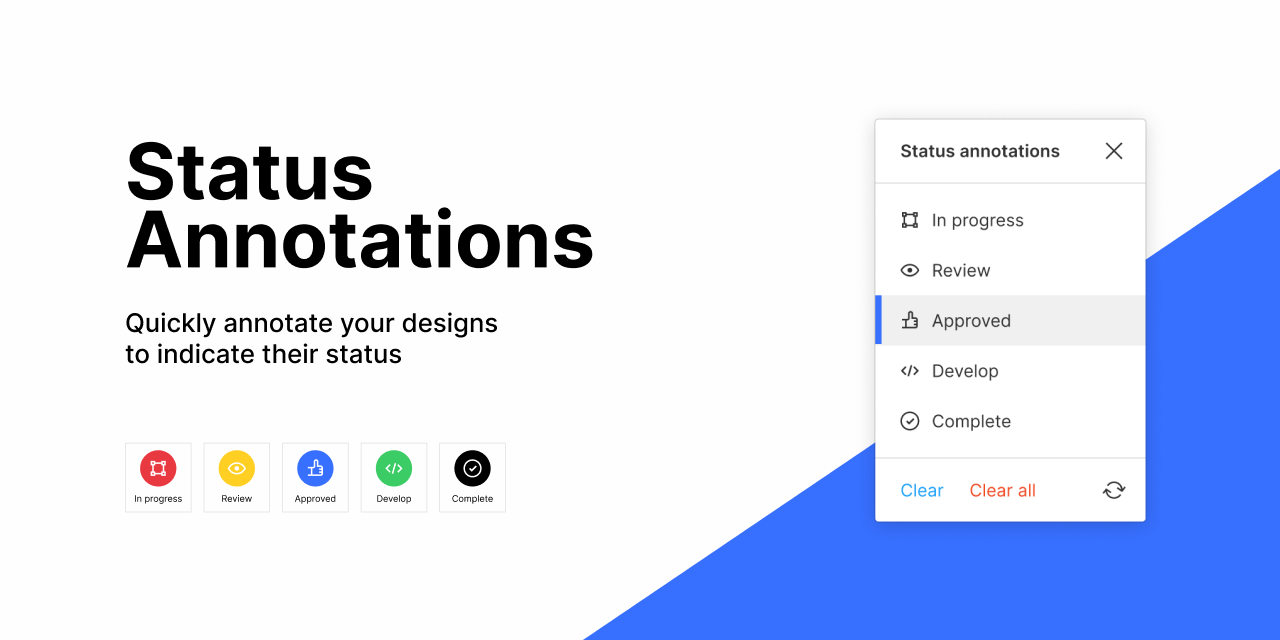
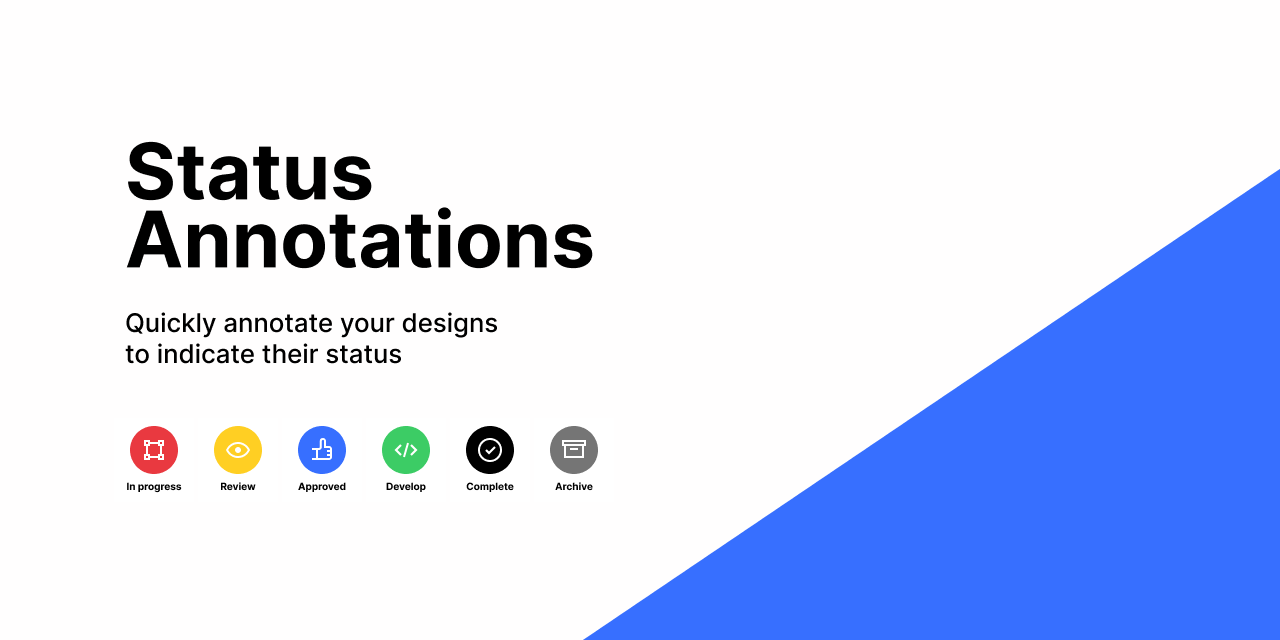
Added archive option
Added archive option + updated promo images

diff --git a/public/code.js b/public/code.js
@@ -1,5 +1,4 @@
-'use strict';
-
+"use strict";
 /*! *****************************************************************************
 Copyright (c) Microsoft Corporation. All rights reserved.
 Licensed under the Apache License, Version 2.0 (the "License"); you may not use
@@ -13,286 +12,4 @@ MERCHANTABLITY OR NON-INFRINGEMENT.
 
 See the Apache Version 2.0 License for specific language governing permissions
 and limitations under the License.
-***************************************************************************** */
-
-function __awaiter(thisArg, _arguments, P, generator) {
-    function adopt(value) { return value instanceof P ? value : new P(function (resolve) { resolve(value); }); }
-    return new (P || (P = Promise))(function (resolve, reject) {
-        function fulfilled(value) { try { step(generator.next(value)); } catch (e) { reject(e); } }
-        function rejected(value) { try { step(generator["throw"](value)); } catch (e) { reject(e); } }
-        function step(result) { result.done ? resolve(result.value) : adopt(result.value).then(fulfilled, rejected); }
-        step((generator = generator.apply(thisArg, _arguments || [])).next());
-    });
-}
-
-//vars
-let uiWidth = 184; // default ui width
-let uiHeight = 210; // default ui height
-let spacing = 8; // spacing of annotations from top of frame
-let page = figma.currentPage;
-let updateCount = 0;
-let removeCount = 0;
-cleanUp();
-if (figma.command === 'refresh') {
-    cleanUp();
-    figma.closePlugin();
-}
-else {
-    //show the UI of the plugin
-    figma.showUI(__html__, { width: uiWidth, height: uiHeight });
-}
-//recieves msgs from the UI
-figma.ui.onmessage = msg => {
-    switch (msg.type) {
-        case 'height':
-            uiHeight = msg.height;
-            figma.ui.resize(uiWidth, uiHeight);
-            break;
-        case 'addStatus':
-            let status = msg.status;
-            createAnnotations(status);
-            break;
-        case 'delete':
-            deleteSelected();
-            break;
-        case 'deleteAll':
-            deleteAll();
-            break;
-        case 'refresh':
-            cleanUp();
-            break;
-    }
-};
-//function to get frames within the selection
-function getTopLevelNodes(nodes) {
-    let topLevelNodesInSelection = [];
-    if (nodes) {
-        nodes.forEach(node => {
-            if (node.parent === page) {
-                if (node.type === 'COMPONENT' || node.type === 'FRAME' || node.type === 'INSTANCE' || node.type === 'GROUP') {
-                    topLevelNodesInSelection.push(node);
-                    console.log(topLevelNodesInSelection);
-                }
-            }
-        });
-    }
-    return topLevelNodesInSelection;
-}
-//create specified annotation
-function createAnnotations(status) {
-    return __awaiter(this, void 0, void 0, function* () {
-        let selection = getTopLevelNodes(figma.currentPage.selection);
-        if (selection.length !== 0) {
-            //counter
-            let count = 0;
-            //create the frame with auto layout
-            let annotionFrame = figma.createFrame();
-            annotionFrame.counterAxisSizingMode = 'AUTO';
-            annotionFrame.layoutMode = 'HORIZONTAL';
-            annotionFrame.itemSpacing = 4;
-            annotionFrame.horizontalPadding = 6;
-            annotionFrame.verticalPadding = 4;
-            annotionFrame.name = 'annotation';
-            annotionFrame.topLeftRadius = 3;
-            annotionFrame.topRightRadius = 3;
-            //style the stroke
-            annotionFrame.strokes = [{
-                    type: 'SOLID',
-                    visible: true,
-                    opacity: 1,
-                    blendMode: 'NORMAL',
-                    color: hexToFigmaRgb('#DBDBDB')
-                }];
-            annotionFrame.strokeWeight = 1;
-            //create and style the text node
-            let text = figma.createText();
-            text.name = status.title;
-            //define and load the font
-            let fontName = {
-                'family': 'Inter',
-                'style': 'Regular'
-            };
-            yield figma.loadFontAsync(fontName);
-            //apply the font properties to the text node
-            text.fontName = fontName;
-            text.fontSize = 12;
-            text.lineHeight = {
-                'value': 16,
-                'unit': 'PIXELS'
-            };
-            //add text to the text node
-            text.characters = status.title;
-            //create the icon
-            let icon = figma.createNodeFromSvg(status.icon);
-            icon.name = 'icon-' + status.slug;
-            icon.layoutAlign = 'CENTER';
-            //add icon and text to annotation
-            annotionFrame.insertChild(0, text);
-            annotionFrame.insertChild(1, icon);
-            //group the frame and put it into an array
-            let itemsToGroup = [];
-            itemsToGroup.push(annotionFrame);
-            let annotation = figma.group(itemsToGroup, page);
-            annotation.name = status.title;
-            //create the inner shadow
-            let innerShadowColor = hexToFigmaRgb(status.color);
-            innerShadowColor = Object.assign({ a: 1.0 }, innerShadowColor);
-            annotation.effects = [{
-                    blendMode: 'NORMAL',
-                    color: innerShadowColor,
-                    offset: { x: 0, y: -2 },
-                    radius: 0,
-                    type: 'INNER_SHADOW',
-                    visible: true
-                }];
-            //loop through each frame
-            selection.forEach(node => {
-                let statusAnnotation;
-                //remove existing status if there is one
-                removeStatus(node);
-                //check to see if first annotation
-                if (count === 0) {
-                    statusAnnotation = annotation;
-                }
-                else {
-                    statusAnnotation = annotation.clone();
-                }
-                //get the frame id
-                let nodeId = node.id;
-                //set the position of the annotation
-                let y = node.y - statusAnnotation.height - spacing;
-                let x = (node.x + node.width) - statusAnnotation.width;
-                statusAnnotation.x = x;
-                statusAnnotation.y = y;
-                //add meta data to the annotation
-                statusAnnotation.setPluginData('frameId', nodeId);
-                //add to group with annotations or create one
-                let annotationGroup = page.findOne(x => x.type === 'GROUP' && x.name === 'status_annotations');
-                if (annotationGroup) {
-                    annotationGroup.appendChild(statusAnnotation);
-                    annotationGroup.parent.insertChild(0, annotationGroup);
-                }
-                else {
-                    let annotationsToGroup = [];
-                    annotationsToGroup.push(statusAnnotation);
-                    let newAnnotationGroup = figma.group(annotationsToGroup, page);
-                    newAnnotationGroup.name = 'status_annotations';
-                    newAnnotationGroup.locked = true;
-                    newAnnotationGroup.expanded = false;
-                    newAnnotationGroup.parent.insertChild(0, newAnnotationGroup);
-                }
-                //set plugin relaunch data
-                if (node.type != 'INSTANCE') {
-                    node.setRelaunchData({ status: status.title });
-                }
-                node.setSharedPluginData('statusannotations', 'status', status.title);
-                //add plugin relaunch data to the page
-                page.setRelaunchData({ refresh: '' });
-                //increase the counter
-                count++;
-            });
-        }
-        else {
-            figma.notify('Please select a top level frame, component, or group');
-        }
-    });
-}
-//clears the status on selected frames
-function deleteSelected() {
-    let selection = getTopLevelNodes(figma.currentPage.selection);
-    if (selection.length !== 0) {
-        selection.forEach(node => {
-            removeStatus(node);
-            if (node.type != 'INSTANCE') {
-                node.setRelaunchData({});
-            }
-        });
-        if (removeCount === 1) {
-            figma.notify('1 annotation removed');
-        }
-        else if (removeCount > 1) {
-            figma.notify(removeCount + ' annotations removed');
-        }
-    }
-    else {
-        figma.notify('Please select a frame, component, or group with a status');
-    }
-    removeCount = 0;
-}
-//clear all annotations
-function deleteAll() {
-    let annotationGroup = page.findOne(x => x.type === 'GROUP' && x.name === 'status_annotations');
-    if (annotationGroup) {
-        annotationGroup.remove();
-    }
-    //need to make this more performant
-    let topLevelNodes = getTopLevelNodes(figma.currentPage.children);
-    topLevelNodes.forEach(node => {
-        if (node.type != 'INSTANCE') {
-            node.setRelaunchData({});
-        }
-    });
-    //remove the plugin relaunch button
-    page.setRelaunchData({});
-    //notify the user
-    figma.notify('All annotations removed');
-}
-//remove the status msg from a frame
-function removeStatus(frame) {
-    let targetId = frame.id;
-    let annotationGroup = page.findOne(x => x.type === 'GROUP' && x.name === 'status_annotations');
-    //remove shared plugin data`
-    frame.setSharedPluginData('statusannotations', 'status', '');
-    if (annotationGroup) {
-        annotationGroup.children.forEach(annotation => {
-            let refId = annotation.getPluginData('frameId');
-            if (targetId === refId) {
-                annotation.remove();
-                removeCount++;
-            }
-        });
-    }
-}
-//this function removes unused annotations and also updates the position
-function cleanUp() {
-    let annotationGroup = page.findOne(x => x.type === 'GROUP' && x.name === 'status_annotations');
-    if (annotationGroup) {
-        annotationGroup.children.forEach(annotation => {
-            let refId = annotation.getPluginData('frameId');
-            let node = figma.getNodeById(refId);
-            if (node) {
-                let y = node.y - annotation.height - spacing;
-                let x = (node.x + node.width) - annotation.width;
-                if (annotation.x != x && annotation.y != y) {
-                    updateCount++;
-                }
-                annotation.x = x;
-                annotation.y = y;
-            }
-            else {
-                annotation.remove();
-                updateCount++;
-            }
-        });
-        //talk to the user
-        if (updateCount === 1) {
-            figma.notify('1 annotation updated');
-        }
-        else if (updateCount > 1) {
-            figma.notify(updateCount + ' annotations updated');
-        }
-        //move the annotations to the bottom
-        annotationGroup.parent.insertChild(0, annotationGroup);
-    }
-    updateCount = 0;
-}
-//Helper Functions
-//hex to figma color system
-function hexToFigmaRgb(hex) {
-    let result = /^#?([a-f\d]{2})([a-f\d]{2})([a-f\d]{2})$/i.exec(hex);
-    return result ? {
-        r: (parseInt(result[1], 16)) / 255,
-        g: (parseInt(result[2], 16)) / 255,
-        b: (parseInt(result[3], 16)) / 255
-    } : null;
-}
+***************************************************************************** */function e(e,t,a,n){return new(a||(a=Promise))((function(i,o){function s(e){try{r(n.next(e))}catch(e){o(e)}}function l(e){try{r(n.throw(e))}catch(e){o(e)}}function r(e){var t;e.done?i(e.value):(t=e.value,t instanceof a?t:new a((function(e){e(t)}))).then(s,l)}r((n=n.apply(e,t||[])).next())}))}let t=210,a=figma.currentPage,n=0,i=0;function o(e){let t=[];return e&&e.forEach(e=>{e.parent===a&&("COMPONENT"!==e.type&&"FRAME"!==e.type&&"INSTANCE"!==e.type&&"GROUP"!==e.type||(t.push(e),console.log(t)))}),t}function s(e){let t=e.id,n=a.findOne(e=>"GROUP"===e.type&&"status_annotations"===e.name);e.setSharedPluginData("statusannotations","status",""),n&&n.children.forEach(e=>{let a=e.getPluginData("frameId");t===a&&(e.remove(),i++)})}function l(){let e=a.findOne(e=>"GROUP"===e.type&&"status_annotations"===e.name);e&&(e.children.forEach(e=>{let t=e.getPluginData("frameId"),a=figma.getNodeById(t);if(a){let t=a.y-e.height-8,i=a.x+a.width-e.width;e.x!=i&&e.y!=t&&n++,e.x=i,e.y=t}else e.remove(),n++}),1===n?figma.notify("1 annotation updated"):n>1&&figma.notify(n+" annotations updated"),e.parent.insertChild(0,e)),n=0}function r(e){let t=/^#?([a-f\d]{2})([a-f\d]{2})([a-f\d]{2})$/i.exec(e);return t?{r:parseInt(t[1],16)/255,g:parseInt(t[2],16)/255,b:parseInt(t[3],16)/255}:null}l(),"refresh"===figma.command?(l(),figma.closePlugin()):figma.showUI(__html__,{width:184,height:t}),figma.ui.onmessage=n=>{switch(n.type){case"height":t=n.height,figma.ui.resize(184,t);break;case"addStatus":!function(t){e(this,void 0,void 0,(function*(){let e=o(figma.currentPage.selection);if(0!==e.length){let n=0,i=figma.createFrame();i.counterAxisSizingMode="AUTO",i.layoutMode="HORIZONTAL",i.itemSpacing=4,i.horizontalPadding=6,i.verticalPadding=4,i.name="annotation",i.topLeftRadius=3,i.topRightRadius=3,i.strokes=[{type:"SOLID",visible:!0,opacity:1,blendMode:"NORMAL",color:r("#DBDBDB")}],i.strokeWeight=1;let o=figma.createText();o.name=t.title;let l={family:"Inter",style:"Regular"};yield figma.loadFontAsync(l),o.fontName=l,o.fontSize=12,o.lineHeight={value:16,unit:"PIXELS"},o.characters=t.title;let f=figma.createNodeFromSvg(t.icon);f.name="icon-"+t.slug,f.layoutAlign="CENTER",i.insertChild(0,o),i.insertChild(1,f);let c=[];c.push(i);let u=figma.group(c,a);u.name=t.title;let d=r(t.color);d=Object.assign({a:1},d),u.effects=[{blendMode:"NORMAL",color:d,offset:{x:0,y:-2},radius:0,type:"INNER_SHADOW",visible:!0}],e.forEach(e=>{let i;s(e),i=0===n?u:u.clone();let o=e.id,l=e.y-i.height-8,r=e.x+e.width-i.width;i.x=r,i.y=l,i.setPluginData("frameId",o);let f=a.findOne(e=>"GROUP"===e.type&&"status_annotations"===e.name);if(f)f.appendChild(i),f.parent.insertChild(0,f);else{let e=[];e.push(i);let t=figma.group(e,a);t.name="status_annotations",t.locked=!0,t.expanded=!1,t.parent.insertChild(0,t)}"INSTANCE"!=e.type&&e.setRelaunchData({status:t.title}),e.setSharedPluginData("statusannotations","status",t.title),a.setRelaunchData({refresh:""}),n++})}else figma.notify("Please select a top level frame, component, or group")}))}(n.status);break;case"delete":!function(){let e=o(figma.currentPage.selection);0!==e.length?(e.forEach(e=>{s(e),"INSTANCE"!=e.type&&e.setRelaunchData({})}),1===i?figma.notify("1 annotation removed"):i>1&&figma.notify(i+" annotations removed")):figma.notify("Please select a frame, component, or group with a status");i=0}();break;case"deleteAll":!function(){let e=a.findOne(e=>"GROUP"===e.type&&"status_annotations"===e.name);e&&e.remove();o(figma.currentPage.children).forEach(e=>{"INSTANCE"!=e.type&&e.setRelaunchData({})}),a.setRelaunchData({}),figma.notify("All annotations removed")}();break;case"refresh":l()}};

diff --git a/src/PluginUI.svelte b/src/PluginUI.svelte
@@ -13,6 +13,7 @@
     import iconApproved from './assets/icon-approved.svg';
     import iconDevelop from './assets/icon-develop.svg';
 	import iconComplete from './assets/icon-complete.svg';
+	import iconArchive from './assets/icon-archive.svg';
 	
 	//define all of the status that you want here
 	let statuses = [
@@ -41,6 +42,11 @@
 			'icon': iconComplete,
 			'color': '#000000'
 		},
+		{
+			'title': 'Archive',
+			'icon': iconArchive,
+			'color': '#757575'
+		}
 	];
 
 	let showDialog = false; // confirmation dialog visibility
